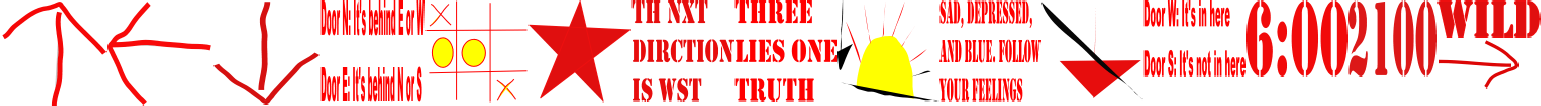
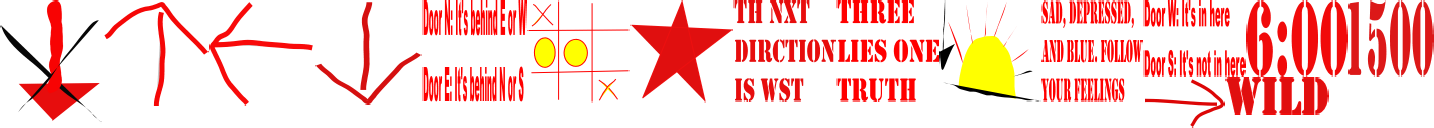
Made clues, screens and hoegarth!

diff --git a/assets/js/game.js b/assets/js/game.js
@@ -12,19 +12,152 @@ var stage = new PIXI.Container();
 stage.scale.x = GAME_SCALE;
 stage.scale.y = GAME_SCALE;
 
+//Title Screen
+var title = new PIXI.Container();
+var background = PIXI.Sprite.fromImage("./assets/img/titleBackground.jpg");
+stage.addChild(background);
 
+
+
+var instructions = new PIXI.Container();
+
+var credits = new PIXI.Container();
+
+
+
+
+
+//Populate title screen
+function loadTitle(){
+  var titleText = new PIXI.Text("Hoegarth's Fall!", {font: '24px Arial', fill: 'red'});
+  titleText.anchor.x = .5;
+  titleText.anchor.y = 0;
+  titleText.position.x = 200;
+  titleText.position.y = 50;
+  title.addChild(titleText);
+  var playText = new PIXI.Text("Play", {font: '24px Arial', fill: 'yellow'});
+  playText.anchor.x = .5;
+  playText.anchor.y = 0;
+  playText.position.x = 200;
+  playText.position.y = 100;
+  playText.interactive = true;
+  playText.on("mousedown", startGame);
+  title.addChild(playText);
+  var instructionText = new PIXI.Text("Instructions", {font: '24px Arial', fill: 'red'});
+  instructionText.anchor.x = .5;
+  instructionText.anchor.y = 0;
+  instructionText.position.x = 200;
+  instructionText.position.y = 150;
+  instructionText.interactive = true;
+  instructionText.on('mousedown', startStruct);
+  title.addChild(instructionText);
+  var creditText = new PIXI.Text("Credits", {font: '24px Arial', fill: 'yellow'});
+  creditText.anchor.x = .5;
+  creditText.anchor.y = 0;
+  creditText.position.x = 200;
+  creditText.position.y = 200;
+  creditText.interactive = true;
+  creditText.on('mousedown', startCredits);
+  title.addChild(creditText);
+  stage.addChild(title);
+}
+
+//Populate instructions screen
+function startStruct(){
+  stage.removeChild(title);
+  var struct = new PIXI.Text("Hoegarth has been trapped in a dungeon!\nUsing the clues provided, find Hoegarth\na safe way out! WASD keys to move.", {font: '16px Arial', fill: 'yellow', align: 'center'});
+  struct.anchor.x = .5;
+  struct.anchor.y = 1;
+  struct.position.x = 200;
+  struct.position.y = 200;
+  instructions.addChild(struct);
+  var goBack = new PIXI.Text("Back to Menu", {font: '24px Arial', fill: 'red'});
+  goBack.anchor.x = .5;
+  goBack.anchor.y = 1;
+  goBack.position.x = 200;
+  goBack.position.y = 350;
+  goBack.interactive = true;
+  goBack.on('mousedown', goback);
+  instructions.addChild(goBack);
+  stage.addChild(instructions);
+}
+
+//Load Credits screen
+function startCredits(){
+  stage.removeChild(title);
+  var credit = new PIXI.Text("Maker: Matt Nielsen\nGuy who brought me pizza: Mark McCrorie\nCS 314\nProject 3 - Tiles", {font: '16px Arial', fill: 'yellow', align: 'center'});
+  credit.anchor.x = .5;
+  credit.anchor.y = 1;
+  credit.position.x = 200;
+  credit.position.y = 200;
+  credits.addChild(credit);
+  var goBack = new PIXI.Text("Back to Menu", {font: '24px Arial', fill: 'red'});
+  goBack.anchor.x = .5;
+  goBack.anchor.y = 1;
+  goBack.position.x = 200;
+  goBack.position.y = 350;
+  goBack.interactive = true;
+  goBack.on('mousedown', goback);
+  credits.addChild(goBack)
+  stage.addChild(credits);
+  animate();
+}
+
+winScreen = new PIXI.Container()
+
+//Load Win Screen
+function winScreenLoader(){
+  stage.removeChildren();
+  stage.addChild(background);
+  isWin = true;
+  var winText = new PIXI.Text("Hoegarth is safe and sound!\nAll thanks to you!\nYou truly are a hero", {font: '16px Arial', fill: 'yellow', align: 'center'});
+  winText.anchor.x = .5;
+  winText.anchor.y = 1;
+  winText.position.x = 200;
+  winText.position.y = 200;
+  winScreen.addChild(winText);
+  hoegarth = new PIXI.Sprite.fromImage("./assets/img/hoegarth.png");
+  hoegarth.scale.x = .5;
+  hoegarth.scale.y = .5;
+  hoegarth.anchor.x = .5;
+  hoegarth.anchor.y = .5;
+  hoegarth.position.x = 50;
+  hoegarth.position.y = 375;
+  winScreen.addChild(hoegarth);
+  createjs.Tween.get(hoegarth).to({x: 350}, 5000).wait(5000).call(stopCartwheels);
+  stage.addChild(winScreen);
+  stage.x = 0;
+  stage.y = 0;
+}
+function stopCartwheels(){
+  isWin = false;
+  hoegarth.rotate = 0;
+}
+function goback(){
+  stage.removeChildren();
+  stage.addChild(background);
+  stage.addChild(title);
+}
+
+//Start Game stuff
 var game = new PIXI.Container();
 
+//Variables
 var currentRoomx;
 var currentRoomy;
 //Directions:
 //1=North, 2= East, 3= South, 4= West
-var pathCorrect = [2, 3, 4, 1, 3, 4, 1, 2, 1, 2, 4, 4, 3, 2, 3];
+//2, 3, 4, 1, 3, 4, 1, 2, 1, 2, 4, 4,
+var pathCorrect = [3, 2, 3];
 var pathLeft = pathCorrect.slice(0, 16);
-
+var clueBag = [];
+var currentClue;
+var canMove = false;
 
 var dungeon;
 var player;
+var isWin = false;
+var hoegarth;
 
 var MOVE_LEFT = 1;
 var MOVE_RIGHT = 2;
@@ -32,9 +165,56 @@ var MOVE_UP = 3;
 var MOVE_DOWN = 4;
 var MOVE_NONE = 0;
 
+//Load the clues
+PIXI.loader
+  .add('./assets/img/clues.json')
+  .load(clueLoader);
+
+function clueLoader(){
+  for(var i=1; i<15; i++){
+    var clue = new PIXI.Sprite(PIXI.Texture.fromFrame('clue'+i+'.png'));
+    clue.anchor.x = .5;
+    clue.anchor.y = .5;
+    clue = randQuadrant(clue);
+    clueBag.push(clue);
+  }
+  var clue = new PIXI.Sprite(PIXI.Texture.fromFrame('clue14a.png'));
+  clue.anchor.x = .5;
+  clue.anchor.y = .5;
+  clueBag.push(clue);
+  var clue = new PIXI.Sprite(PIXI.Texture.fromFrame('clue14b.png'));
+  clue.anchor.x = .5;
+  clue.anchor.y = .5;
+  clueBag.push(clue);
+}
+
+//Helper function to randomize the position of the clues
+function randQuadrant(clue){
+  var quadrant = Math.floor((Math.random() * 4)+1);
+  switch(quadrant){
+    case 1:
+      clue.position.x = 1024;
+      clue.position.y = 896;
+      break;
+    case 2:
+      clue.position.x = 1024;
+      clue.position.y = 1056;
+      break;
+    case 3:
+      clue.position.x = 864;
+      clue.position.y = 1056;
+      break;
+    case 4:
+      clue.position.x = 864;
+      clue.position.y = 896;
+      break;
+  }
+  return clue;
+}
+
 // The move function starts or continues movement
 function move() {
-  if (player.direction == MOVE_NONE) {
+  if (player.direction == MOVE_NONE || !canMove) {
     player.moving = false;
     console.log("x:"+player.x);
     console.log("y:"+player.y);
@@ -46,21 +226,25 @@ function move() {
   if (player.direction == MOVE_UP && Math.abs(player.position.x - (currentRoomx - 16)) < 30 && player.position.y == currentRoomy - 160){
     console.log("moveUp");
     player.direction == MOVE_NONE;
+    canMove = false;
     changeRoomUp();
   }
   if (player.direction == MOVE_LEFT && player.position.x == (currentRoomx - 160) && player.position.y == currentRoomy){
     console.log("moveLeft");
     player.direction == MOVE_NONE;
+    canMove = false;
     changeRoomLeft();
   }
   if (player.direction == MOVE_RIGHT && player.position.x == (currentRoomx + 160) && player.position.y == currentRoomy){
     console.log("moveRight");
     player.direction == MOVE_NONE;
+    canMove = false;
     changeRoomRight();
   }
   if (player.direction == MOVE_DOWN && Math.abs(player.position.x - (currentRoomx - 16)) < 30 && player.position.y == currentRoomy + 160){
     console.log("moveDown");
     player.direction = MOVE_NONE;
+    canMove=false;
     changeRoomDown();
   }
 
@@ -128,6 +312,7 @@ window.addEventListener("keyup", function onKeyUp(e) {
   player.direction = MOVE_NONE;
 });
 
+//Change Room Functions
 function changeRoomUp(){
   createjs.Tween.get(dungeon).to({y: dungeon.y + 384}, 500);
   createjs.Tween.get(player).to({y: player.y + 320}, 500).wait(700).call(function() {checkPos(1)});
@@ -157,6 +342,7 @@ function changeRoomLeft(){
   //player.position.y = player.position.y + 320;
 }
 
+//Check the room to see if it is correct
 function checkPos(dir){
   console.log("checkpos");
   console.log("dir:"+dir);
@@ -164,6 +350,7 @@ function checkPos(dir){
   if(dir == pathLeft[0]){
     console.log("Good Move!");
     pathLeft.shift();
+    changeClue();
     if(pathLeft.length == 0){
       console.log("WIN!");
     }
@@ -173,9 +360,11 @@ function checkPos(dir){
     reset(dir);
   }
   player.direction = MOVE_NONE;
+  canMove = true;
   move();
 }
 
+//Reset after a wrong move back to the first room
 function reset(dir){
   console.log("reset");
   pathLeft = pathCorrect.slice(0, 16);
@@ -194,22 +383,69 @@ function reset(dir){
     player.y = player.y;
     player.x = player.x;
   }
+  changeClue();
 }
 
+//Update the clue depending on how many right rooms the player has made.
+function changeClue(){
+  game.removeChild(currentClue);
+  var count = 15 - pathLeft.length;
+  if(count == 15){
+    console.log("Win!");
+    canMove = false;
+    winScreenLoader();
+  }else if(count == 10){
+    game.removeChild(currentClue);
+    console.log("No Clue");
+  }else if(count == 14){
+    clue14();
+    return;
+  }else if(count < 10){
+    currentClue = clueBag[count];
+  }else if(count > 10){
+    currentClue = clueBag[(count-1)];
+  }
+  game.addChild(currentClue);
+}
+//Special function for the 14th clue.
+function clue14(){
+  game.removeChild(currentClue);
+  var text14 = new PIXI.Text("3 are lies. 1 is truth\nDoor N: It's behind W or E\nDoor W: It's behind N or S\nDoor E: It's in here\nDoor S: It's not in here\nClick to remove and solve the clue!",{font : '24px Arial', fill : 'yellow', align : 'center'});
+  text14.anchor.x = .5;
+  text14.anchor.y = .5;
+  text14.position.x = 960;
+  text14.position.y = 960;
+  text14.interactive = true;
+  text14.on('mousedown', clear14);
+  currentClue = text14;
+  game.addChild(currentClue);
+  canMove = false;
+}
+function clear14(){
+  game.removeChild(currentClue);
+  canMove = true;
+}
 PIXI.SCALE_MODES.DEFAULT = PIXI.SCALE_MODES.NEAREST;
 
-PIXI.loader
-  .add('room_json', './assets/img/dungeon.json')
-  .add('maptiles', './assets/img/maptiles.png')
-  .load(ready);
+//Load map
+function startGame(){
+  stage.removeChildren();
+  PIXI.loader
+    .add('room_json', './assets/img/dungeon.json')
+    .add('maptiles', './assets/img/maptiles.png')
+    .load(ready);
+}
 
+//Populate map with hoegarth and get ready to play!
 function ready(){
   var tu = new TileUtilities(PIXI);
   dungeon = tu.makeTiledWorld("room_json", "./assets/img/maptiles.png");
   game.addChild(dungeon);
   stage.addChild(game);
 
-  player = new PIXI.Sprite.fromImage("./assets/img/cs413.png");
+  player = new PIXI.Sprite.fromImage("./assets/img/hoegarth.png");
+  player.scale.x = .2;
+  player.scale.y = .2;
   player.anchor.x = 0.0;
   player.anchor.y = 1;
   player.position.x = 960;
@@ -217,19 +453,26 @@ function ready(){
   player.position.y = 960;
   currentRoomy = 960;
   game.addChild(player);
+  canMove = true;
   update_camera();
   animate();
+  changeClue();
 }
 
 function animate() {
   requestAnimationFrame(animate);
+  if(isWin){
+    hoegarth.rotation += .1;
+  }
   renderer.render(stage);
 }
 
-
+//Update camera used only in console for checks
 function update_camera() {
   stage.x = -player.x*GAME_SCALE + GAME_WIDTH/2 - player.width/2*GAME_SCALE;
   stage.y = -player.y*GAME_SCALE + GAME_HEIGHT/2 + player.height/2*GAME_SCALE;
   stage.x = -Math.max(0, Math.min(dungeon.worldWidth*GAME_SCALE - GAME_WIDTH, -stage.x));
   stage.y = -Math.max(0, Math.min(dungeon.worldHeight*GAME_SCALE - GAME_HEIGHT, -stage.y));
 }
+loadTitle();
+animate();
